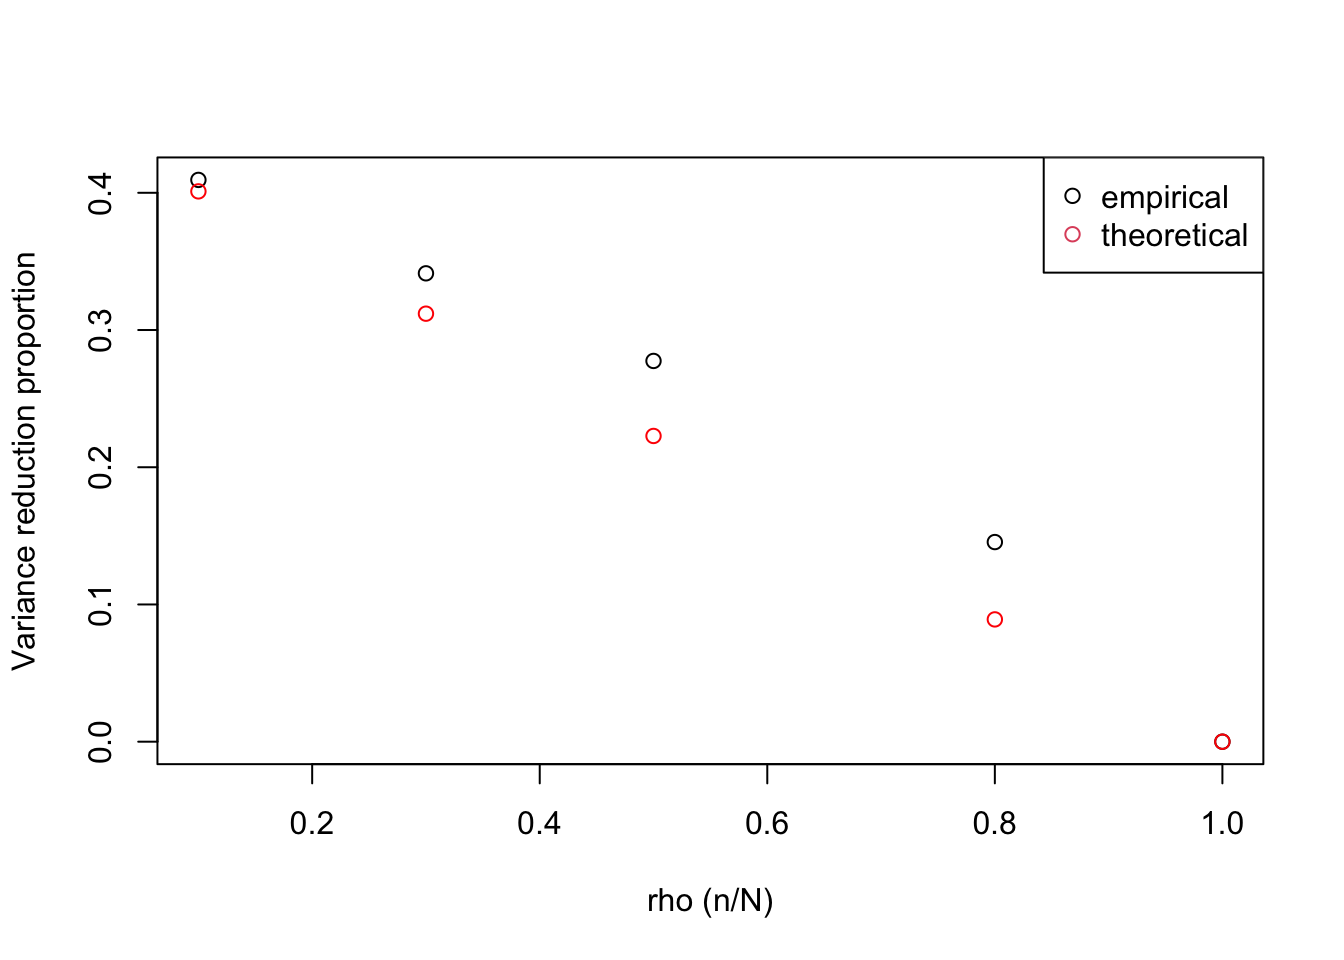
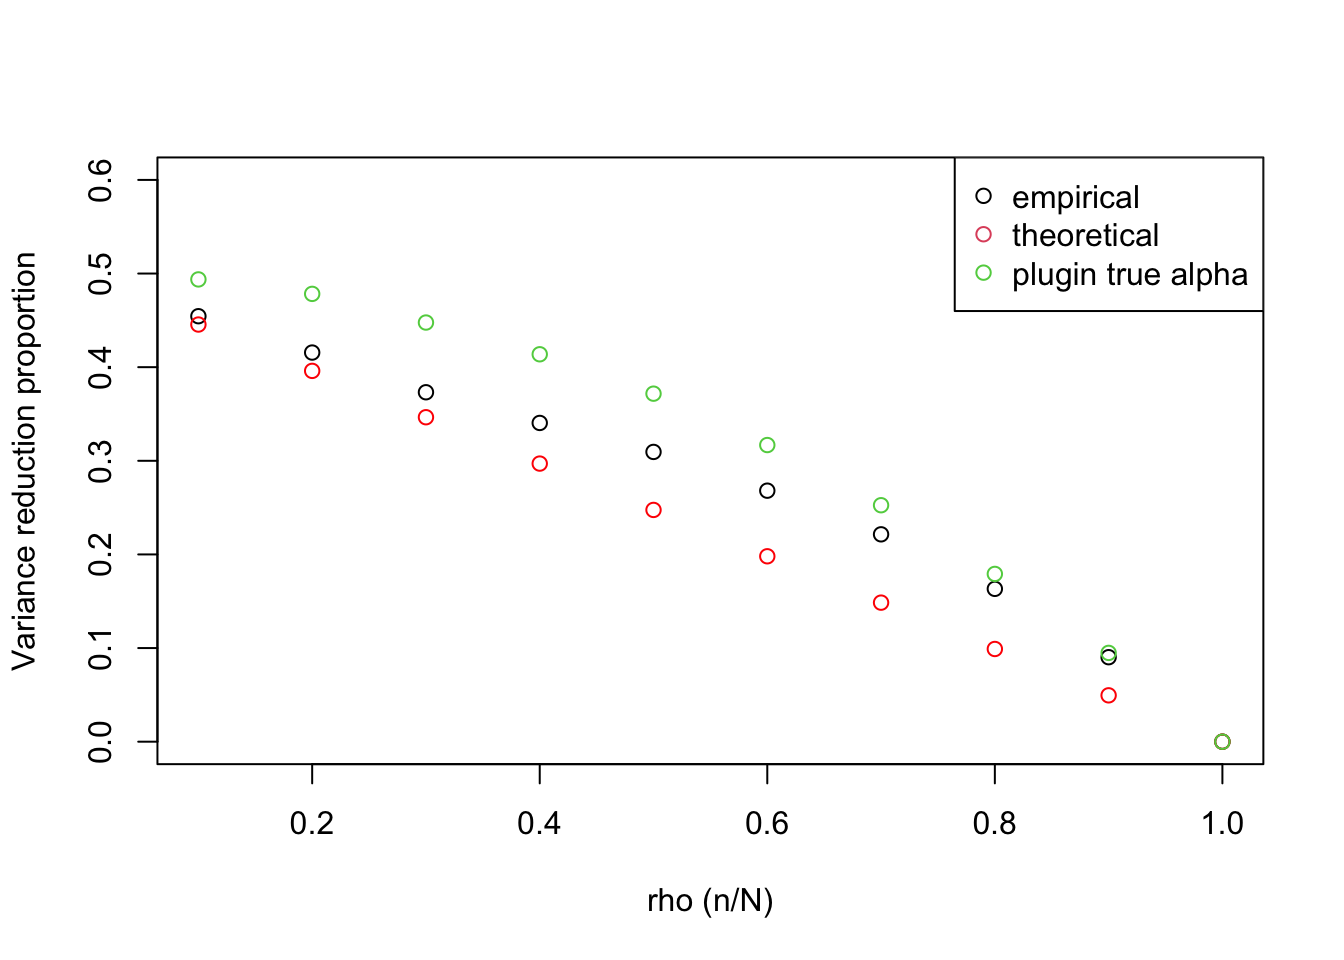
Build site.

diff --git a/docs/sim_gaussian_res.html b/docs/sim_gaussian_res.html
@@ -384,7 +384,7 @@ div.tocify {
 <div class="tab-content">
 <div id="summary" class="tab-pane fade in active">
 <p>
-<strong>Last updated:</strong> 2023-02-23
+<strong>Last updated:</strong> 2023-02-24
 </p>
 <p>
 <strong>Checks:</strong> <span class="glyphicon glyphicon-ok text-success" aria-hidden="true"></span> 7 <span class="glyphicon glyphicon-exclamation-sign text-danger" aria-hidden="true"></span> 0
@@ -475,16 +475,16 @@ This reproducible <a href="http://rmarkdown.rstudio.com">R Markdown</a> analysis
 <div class="panel panel-default">
 <div class="panel-heading">
 <p class="panel-title">
-<a data-toggle="collapse" data-parent="#workflowr-checks" href="#strongRepositoryversionstrongahrefhttpsgithubcomyunqiyang0215simulationcalibratedmrtree5f778bdc5d9afb540f26027b7772f6e42817e609targetblank5f778bda"> <span class="glyphicon glyphicon-ok text-success" aria-hidden="true"></span> <strong>Repository version:</strong> <a href="https://github.com/yunqiyang0215/simulation-calibrated-mr/tree/5f778bdc5d9afb540f26027b7772f6e42817e609" target="_blank">5f778bd</a> </a>
+<a data-toggle="collapse" data-parent="#workflowr-checks" href="#strongRepositoryversionstrongahrefhttpsgithubcomyunqiyang0215simulationcalibratedmrtree8bbfa5bdfc23bf52de2b0dc87b52967ad194160ctargetblank8bbfa5ba"> <span class="glyphicon glyphicon-ok text-success" aria-hidden="true"></span> <strong>Repository version:</strong> <a href="https://github.com/yunqiyang0215/simulation-calibrated-mr/tree/8bbfa5bdfc23bf52de2b0dc87b52967ad194160c" target="_blank">8bbfa5b</a> </a>
 </p>
 </div>
[2 lines of base64/hex data omitted]
 <div class="panel-body">
 <p>
 Great! You are using Git for version control. Tracking code development and connecting the code version to the results is critical for reproducibility.
 </p>
 <p>
-The results in this page were generated with repository version <a href="https://github.com/yunqiyang0215/simulation-calibrated-mr/tree/5f778bdc5d9afb540f26027b7772f6e42817e609" target="_blank">5f778bd</a>. See the <em>Past versions</em> tab to see a history of the changes made to the R Markdown and HTML files.
+The results in this page were generated with repository version <a href="https://github.com/yunqiyang0215/simulation-calibrated-mr/tree/8bbfa5bdfc23bf52de2b0dc87b52967ad194160c" target="_blank">8bbfa5b</a>. See the <em>Past versions</em> tab to see a history of the changes made to the R Markdown and HTML files.
 </p>
 <p>
 Note that you need to be careful to ensure that all relevant files for the analysis have been committed to Git prior to generating the results (you can use <code>wflow_publish</code> or <code>wflow_git_commit</code>). workflowr only checks the R Markdown file, but you know if there are other scripts or data files that it depends on. Below is the status of the Git repository when the results were generated:
@@ -497,6 +497,8 @@ Ignored files:
 
 Untracked files:
     Untracked:  analysis/check_var_reduction.Rmd
+    Untracked:  data/gaussian_r.rds
+    Untracked:  data/gaussian_rho.rds
 
 </code></pre>
 <p>
@@ -535,6 +537,40 @@ Message
 </tr>
 </thead>
 <tbody>
+<tr>
+<td>
+Rmd
+</td>
+<td>
+<a href="https://github.com/yunqiyang0215/simulation-calibrated-mr/blob/8bbfa5bdfc23bf52de2b0dc87b52967ad194160c/analysis/sim_gaussian_res.Rmd" target="_blank">8bbfa5b</a>
+</td>
+<td>
+yunqiyang0215
+</td>
+<td>
+2023-02-24
+</td>
+<td>
+wflow_publish("analysis/sim_gaussian_res.Rmd")
+</td>
+</tr>
+<tr>
+<td>
+html
+</td>
+<td>
+<a href="https://rawcdn.githack.com/yunqiyang0215/simulation-calibrated-mr/85978c073ec23dab49c2f9b437c0bf1f59b3edcb/docs/sim_gaussian_res.html" target="_blank">85978c0</a>
+</td>
+<td>
+yunqiyang0215
+</td>
+<td>
+2023-02-23
+</td>
+<td>
+Build site.
+</td>
+</tr>
 <tr>
 <td>
 Rmd
@@ -647,7 +683,7 @@ VR = \frac{(1-r)(1-\rho)}{2}\frac{\sigma^2}{\sigma^2+(1-r^2)\beta_2^2}
 <h3>2. Theoretical vs. simulation: Change correlation</h3>
 <p>Simulation script: <a href="https://github.com/yunqiyang0215/simulation-calibrated-mr/blob/master/analysis/gaussian_r.R" class="uri">https://github.com/yunqiyang0215/simulation-calibrated-mr/blob/master/analysis/gaussian_r.R</a></p>
 <p>n = 5e3; N = 5e4; b = c(1,3,0.1); sigma = 1</p>
-<pre class="r"><code>res &lt;- readRDS(&quot;/Users/nicholeyang/Downloads/calibrated_estimator/simulation/sim_gaussian/gaussian_r.rds&quot;)</code></pre>
+<pre class="r"><code>res &lt;- readRDS(&quot;./data/gaussian_r.rds&quot;)</code></pre>
 <pre class="r"><code>rs &lt;- c(-0.8, -0.6, -0.4, -0.2, 0, 0.2, 0.4, 0.6, 0.8)
 est_var &lt;- matrix(NA, ncol = 2, nrow = length(res))
 for (i in 1:length(res)){
@@ -701,22 +737,23 @@ yunqiyang0215
 </div>
 <div id="theoretical-vs.-simulation-change-rho" class="section level3">
 <h3>3. Theoretical vs. simulation: Change rho</h3>
-<p>Here I fixed N = 5e4. Therefore, as <span class="math inline">\(\rho\)</span> increases, <span class="math inline">\(n\)</span> will increase.</p>
+<p>Here I fixed n = 5e3. Therefore, as <span class="math inline">\(\rho\)</span> increases, <span class="math inline">\(N\)</span> will decrease.</p>
 <p>Simulation script: <a href="https://github.com/yunqiyang0215/simulation-calibrated-mr/blob/master/analysis/gaussian_rho.R" class="uri">https://github.com/yunqiyang0215/simulation-calibrated-mr/blob/master/analysis/gaussian_rho.R</a></p>
-<p>N = 5e4; b = c(1,3,0.1); sigma = 1; r = 0.1</p>
-<pre class="r"><code>res &lt;- readRDS(&quot;/Users/nicholeyang/Downloads/calibrated_estimator/simulation/sim_gaussian/gaussian_rho.rds&quot;)</code></pre>
-<pre class="r"><code>rhos &lt;- c(0.1, 0.3, 0.5, 0.8, 1)
-est_var &lt;- matrix(NA, ncol = 2, nrow = length(res))
+<p>n = 5e3; b = c(1,3,0.1); sigma = 1; r = 0</p>
+<pre class="r"><code>res &lt;- readRDS(&quot;./data/gaussian_rho.rds&quot;)</code></pre>
+<pre class="r"><code>rhos &lt;- c(0.1, 0.2, 0.3, 0.4, 0.5, 0.6, 0.7, 0.8, 0.9, 1)
+est_var &lt;- matrix(NA, ncol = 3, nrow = length(res))
 for (i in 1:length(res)){
   est_var[i, ] &lt;- apply(res[[i]], MARGIN = 2, function(x) var(x))
 }</code></pre>
 <pre class="r"><code>theo_vr &lt;- rep(NA, length(res))
 for (i in 1:length(res)){
-  theo_vr[i] &lt;- compute_var_reduction(sigma2 = 1, rho = rhos[i], r = 0.1, b2 = 0.1)
+  theo_vr[i] &lt;- compute_var_reduction(sigma2 = 1, rho = rhos[i], r = 0, b2 = 0.1)
 }</code></pre>
-<pre class="r"><code>plot(rhos, 1-est_var[,1]/est_var[,2], xlab =&quot;rho (n/N)&quot;, ylab = &quot;Variance reduction proportion&quot;)
+<pre class="r"><code>plot(rhos, 1-est_var[,1]/est_var[,3], xlab =&quot;rho (n/N)&quot;, ylab = &quot;Variance reduction proportion&quot;, ylim = c(0, 0.6))
 points(rhos, theo_vr, col = &quot;red&quot;)
-legend(&quot;topright&quot;, legend = c(&quot;empirical&quot;, &quot;theoretical&quot;), col = c(1,2), pch = 1)</code></pre>
+points(rhos, 1-est_var[,2]/est_var[,3], col = 3)
+legend(&quot;topright&quot;, legend = c(&quot;empirical&quot;, &quot;theoretical&quot;, &quot;plugin true alpha&quot;), col = c(1,2, 3), pch = 1)</code></pre>
 <p><img src="figure/sim_gaussian_res.Rmd/unnamed-chunk-9-1.png" width="672" style="display: block; margin: auto;" /></p>
 <p>
 <button type="button" class="btn btn-default btn-xs btn-workflowr btn-workflowr-fig" data-toggle="collapse" data-target="#fig-unnamed-chunk-9-1">
